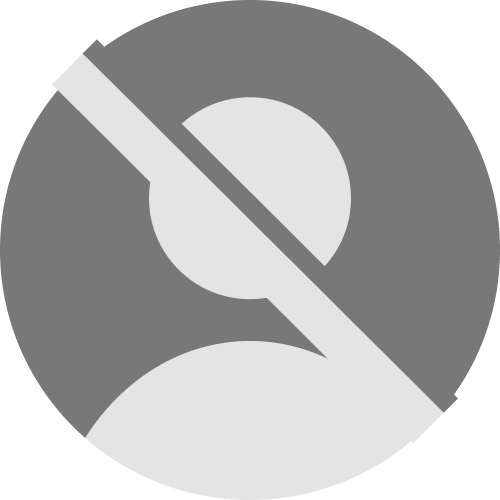
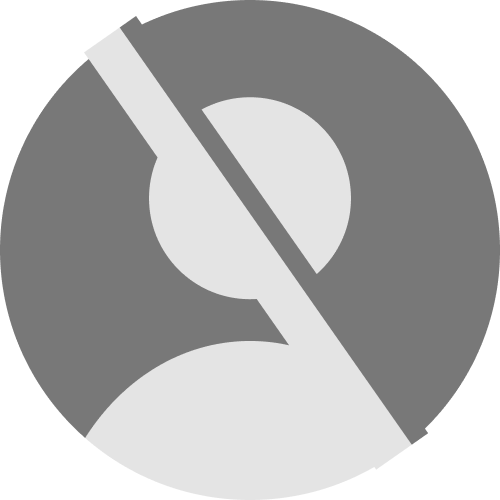
feat: altera exibição da imagem de perfil para usuários anônimos com placeholder específico

diff --git a/frontend/src/pages/admin/gerenciar/[id]/Perfil.tsx b/frontend/src/pages/admin/gerenciar/[id]/Perfil.tsx
@@ -115,7 +115,12 @@ const Perfil: React.FC = () => {
           <div className="col-span-3 md:col-span-1 flex justify-center">
             <div className="relative w-[220px] h-[220px] rounded-full overflow-hidden">
               <img
-                src={profilePic || "/user_placeholder.png"}
+                src={
+                  profilePic ||
+                  (user?.Role === "anonimo"
+                    ? "/user_placeholder_anonimo.png"
+                    : "/user_placeholder.png")
+                }
                 alt="Foto de perfil"
                 className="w-full h-full object-cover"
               />
